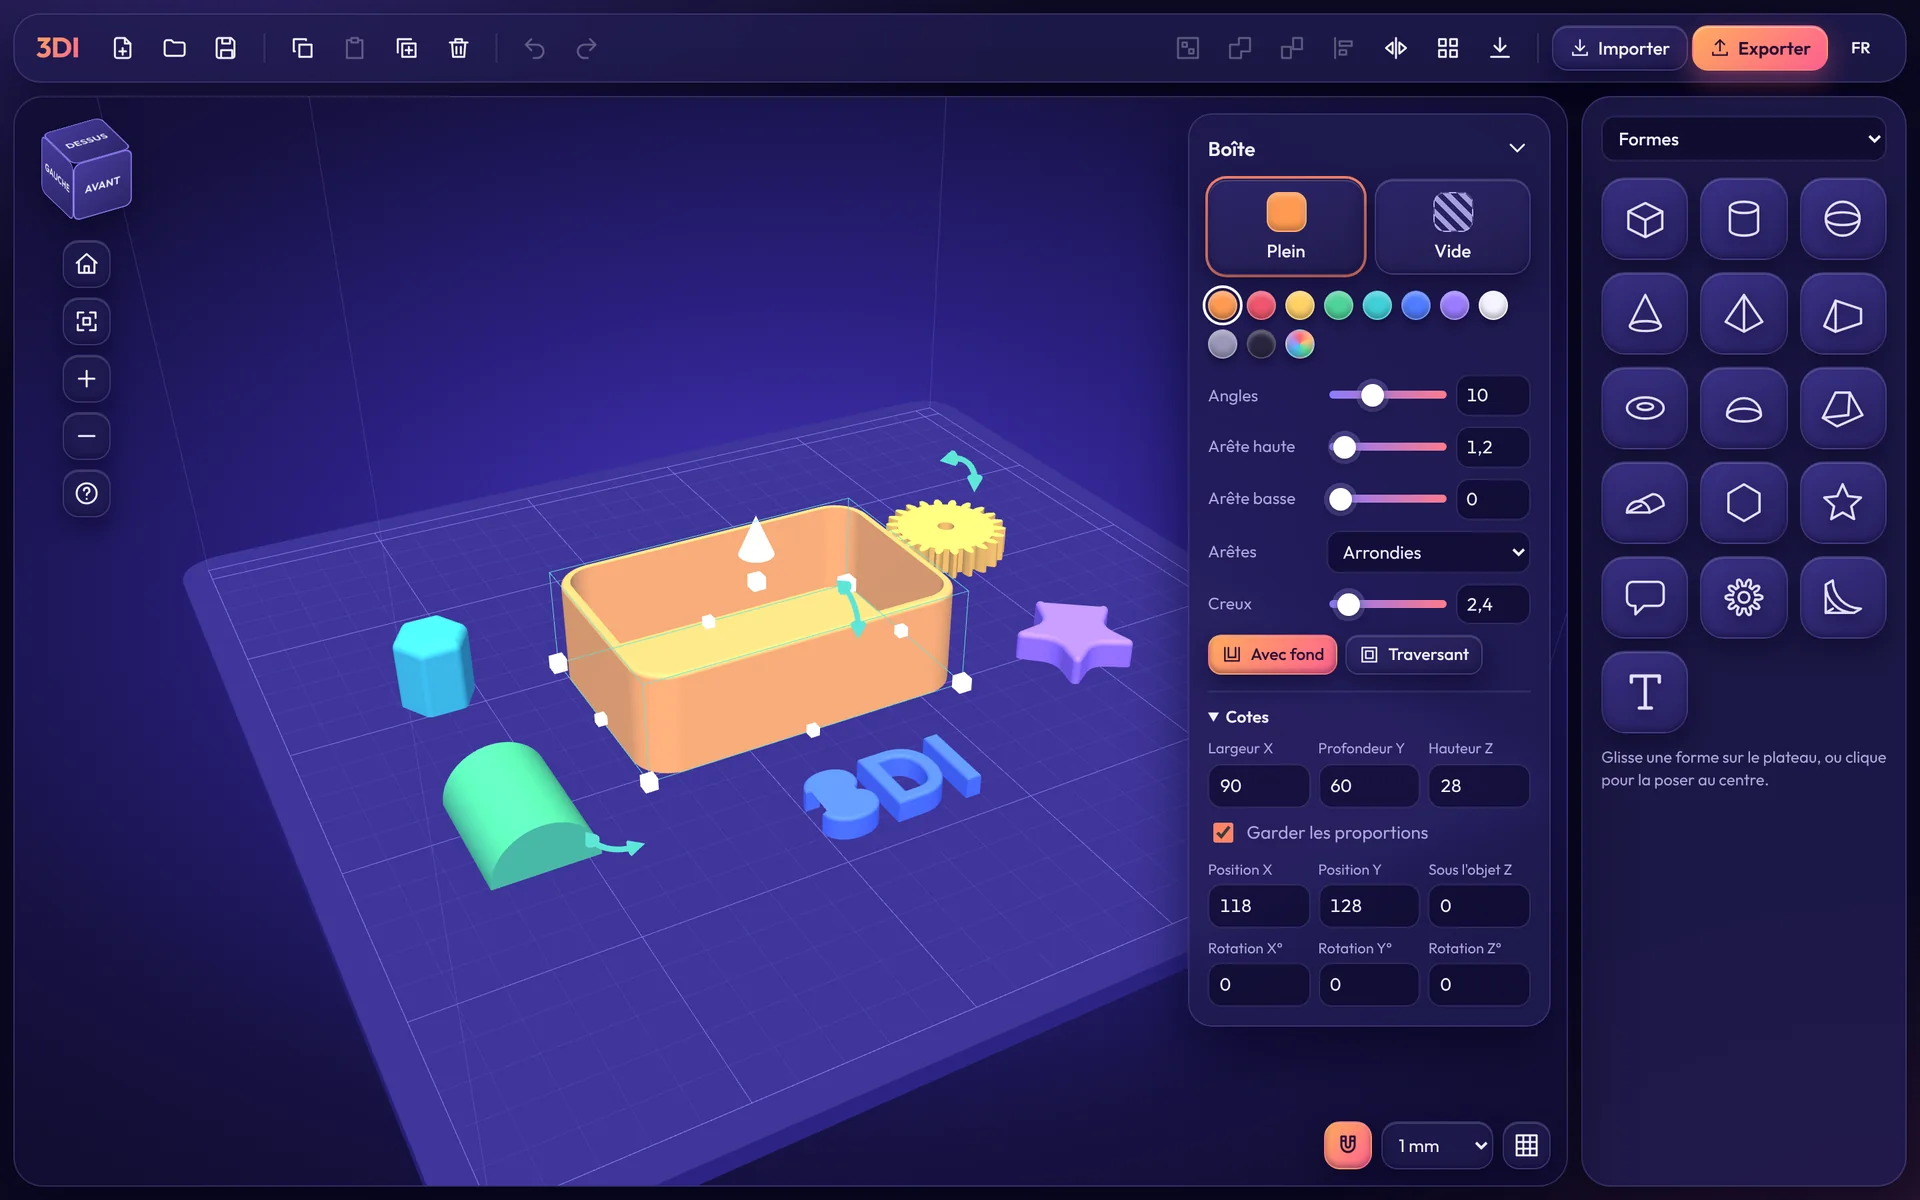
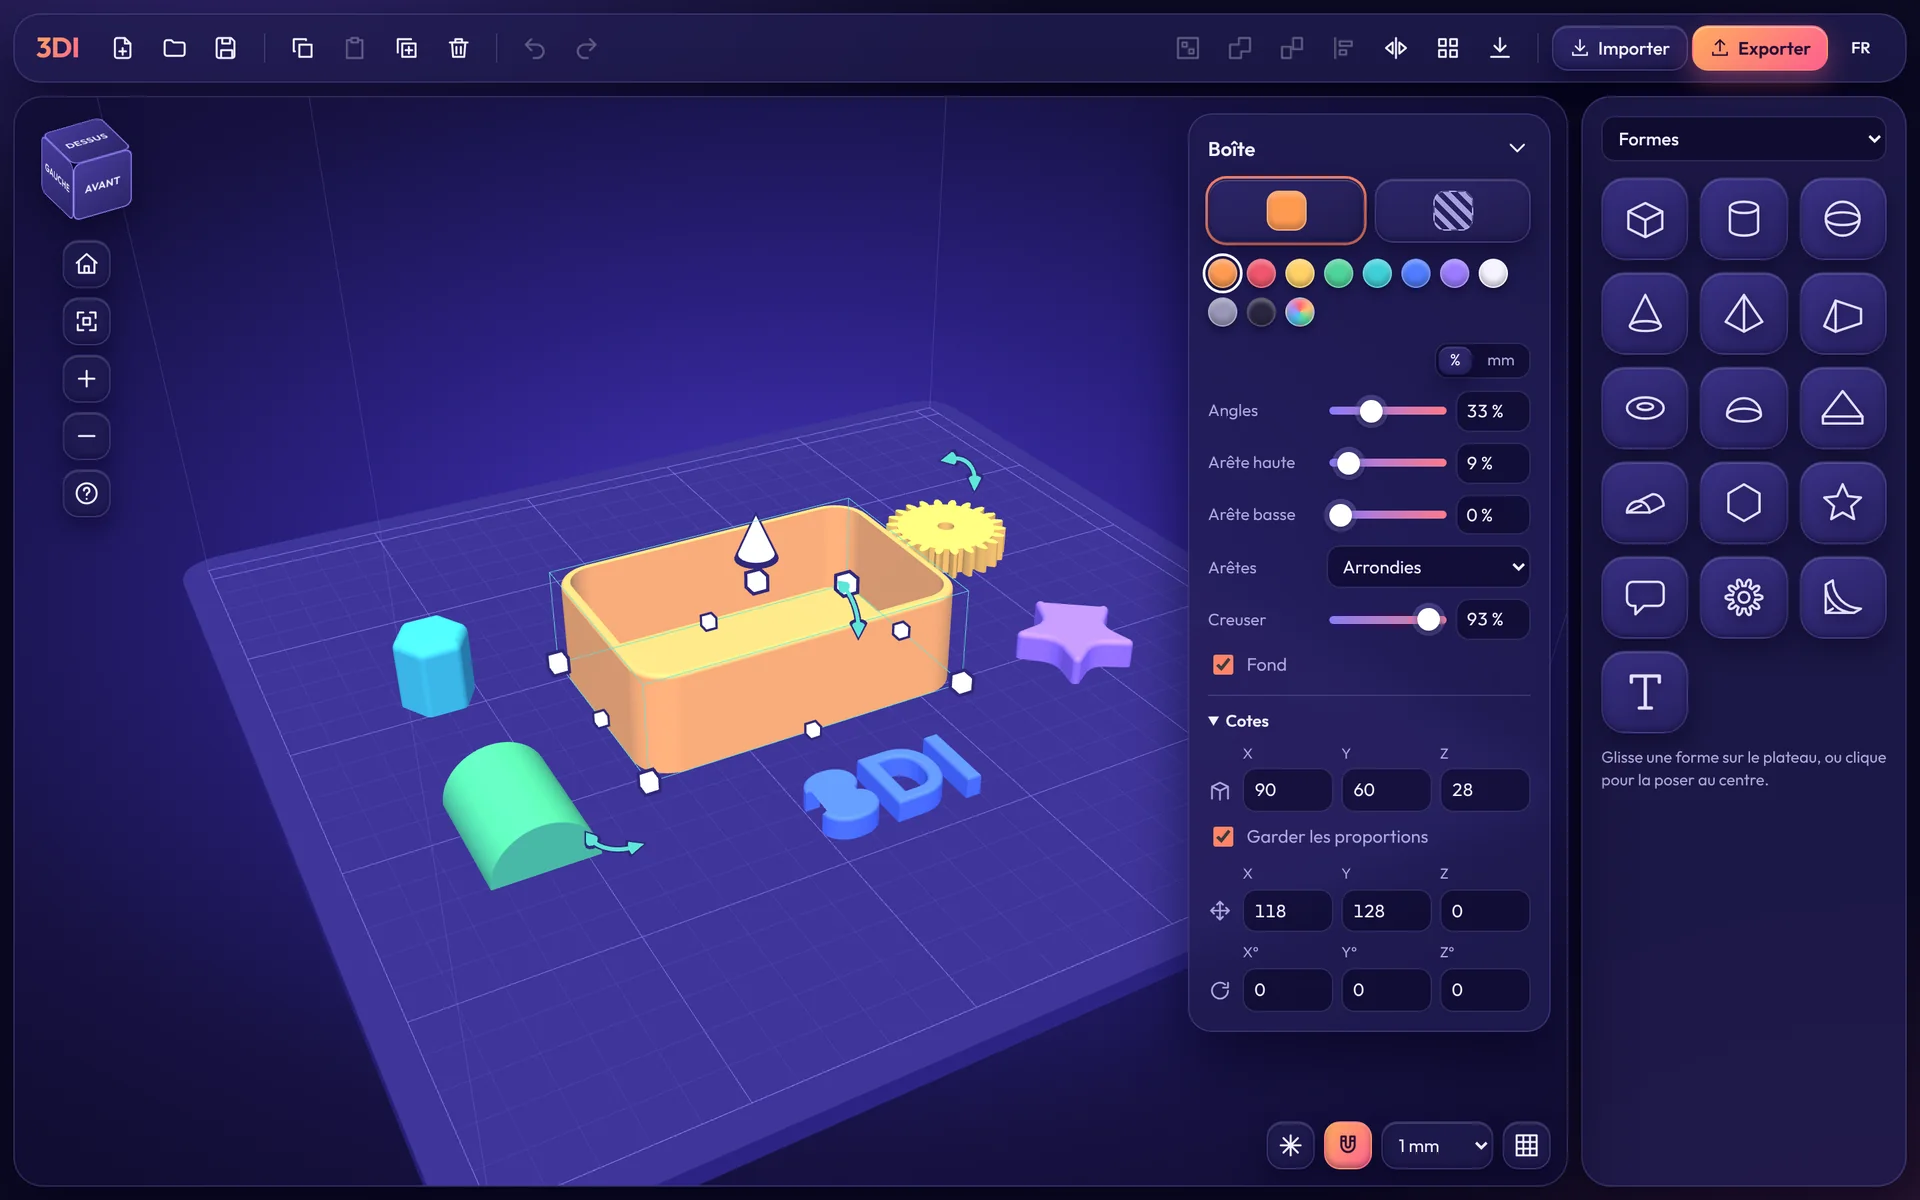
Visserie, piles et aimants : réglages dans le panneau de la pièce
Le modèle, la taille et le jeu ne sont plus dans la bibliothèque : on pose la pièce, puis on la règle
dans son panneau. Le dernier choix sert de point de départ à la pièce suivante.

Claude-Session: https://claude.ai/code/session_013yjLCy5hmHGkwpUXcq5aq7

diff --git a/src/app.html b/src/app.html
@@ -232,6 +232,12 @@ summary{cursor:pointer;font-weight:600;font-size:12.5px;margin-bottom:8px}
             <div class="sl"><span data-t="Creuser"></span><input type="range" id="s-hol" min="0" max="100" step="1"><input id="f-hol" inputmode="decimal" data-tt="Creuser : 0 % = plein. En mm : épaisseur des parois."></div>
             <label class="chk" id="l-fond"><input type="checkbox" id="hm-fond"><span data-t="Fond"></span></label>
           </div>
+          <div id="insp-comp" hidden>
+            <div class="row two">
+              <label class="fld"><span data-t="Modèle"></span><select id="k-model"></select></label>
+              <label class="fld"><span data-t="Jeu"></span><input id="k-jeu" inputmode="decimal" data-tt="Espace ajouté tout autour pour que la pièce entre"></label>
+            </div>
+          </div>
           <div id="insp-hw" hidden>
             <div class="row">
               <label class="fld"><span data-t="Taille"></span><select id="h-size"></select></label>
@@ -286,21 +292,13 @@ summary{cursor:pointer;font-weight:600;font-size:12.5px;margin-bottom:8px}
     <div class="tiles" id="shapes"></div>
     <div class="tiles" id="moulds" hidden></div>
     <div id="comp-box" hidden>
-      <div class="row two">
-        <label class="fld"><span data-t="Pile"></span><select id="c-cell"></select></label>
-        <label class="fld"><span data-t="Aimant"></span><select id="c-mag"></select></label>
-      </div>
-      <div class="row two"><label class="fld"><span data-t="Jeu"></span><input id="c-jeu" inputmode="decimal" value="0,2"></label></div>
       <div class="tiles" id="comps"></div>
     </div>
     <div id="hw-box" hidden>
-      <div class="row two">
-        <label class="fld"><span data-t="Taille"></span><select id="v-size"></select></label>
-        <label class="fld"><span data-t="Jeu"></span><input id="v-jeu" inputmode="decimal" value="0,2"></label>
-      </div>
       <div class="tiles" id="hardware"></div>
     </div>
-    <p class="note" data-t="Glisse une forme sur le plateau, ou clique pour la poser au centre."></p>
+    <p class="note" id="lib-note" data-t="Glisse une forme sur le plateau, ou clique pour la poser au centre."></p>
+    <p class="note" id="lib-note2" hidden data-t="Pose la pièce, puis choisis sa taille et son jeu dans son panneau."></p>
   </aside>
 </div>
 
@@ -529,16 +527,22 @@ const CELLS=[['AAA',10.5,44.5],['AA',14.5,50.5],['C',26.2,50],['D',34.2,61.5],['
   ['CR2032',20,3.2,1],['CR2025',20,2.5,1],['CR2016',20,1.6,1],['LR44',11.6,5.4,1],['9V',26.5,17.5,48.5,2]];
 const MAGNETS=[['Ø3 × 1',3,1],['Ø4 × 2',4,2],['Ø5 × 2',5,2],['Ø5 × 3',5,3],['Ø6 × 2',6,2],['Ø6 × 3',6,3],['Ø8 × 2',8,2],['Ø8 × 3',8,3],['Ø10 × 2',10,2],['Ø10 × 3',10,3],['Ø10 × 5',10,5],
   ['Ø12 × 3',12,3],['Ø15 × 3',15,3],['Ø20 × 3',20,3],['10 × 5 × 2',10,5,2,2],['20 × 10 × 2',20,10,2,2],['20 × 10 × 5',20,10,5,2]];
-function compJeu(){ const v=num($('c-jeu').value); return v===null||v<0?0:v*U(); }
-function compBase(spec,j,lying){
+/* le modèle et le jeu se règlent dans le panneau de l'objet posé ; le dernier choix sert de point de départ au suivant */
+const COMPDEF={cell:1,mag:4,j:.2}, COMPLIST={cell:CELLS,mag:MAGNETS}, COMPNAME={cell:'Pile ',mag:'Aimant '};
+function compBase(c){
+  const sp=COMPLIST[c.t][c.i], j=c.j, box=sp.length===5;
   return make(()=>{
-    if(spec[4]===2) return Manifold.cube([spec[1]+2*j,spec[2]+2*j,spec[3]+2*j],true);
-    const r=spec[1]/2+j, L=spec[2]+2*j, c=Manifold.cylinder(L,r,r,96,true);
-    if(!lying) return c; const m=c.rotate([0,90,0]); c.delete(); return m; });
+    if(box) return Manifold.cube([sp[1]+2*j,sp[2]+2*j,sp[3]+2*j],true);
+    const r=sp[1]/2+j, L=sp[2]+2*j, cy=Manifold.cylinder(L,r,r,96,true);
+    if(c.t!=='cell'||sp[3]===1) return cy; const m=cy.rotate([0,90,0]); cy.delete(); return m; });
 }
-const makeCell=()=>{ const sp=CELLS[+$('c-cell').value], box=sp.length===5; const spec=box?[sp[0],sp[1],sp[2],sp[3],2]:sp;
-  return newObj(compBase(spec,compJeu(),!box&&sp[3]!==1),label('Pile '+sp[0]),{hole:true}); };
-const makeMagnet=()=>{ const sp=MAGNETS[+$('c-mag').value]; return newObj(compBase(sp,compJeu(),false),label('Aimant '+sp[0]),{hole:true}); };
+const makeComp=t=>()=>{ const c={t,i:COMPDEF[t],j:COMPDEF.j}, o=newObj(compBase(c),label(COMPNAME[t]+COMPLIST[t][c.i][0]),{hole:true}); o.comp=c; return o; };
+const makeCell=makeComp('cell'), makeMagnet=makeComp('mag');
+function setComp(o,patch){
+  const c={...o.comp,...patch}, base=compBase(c), bottom=o.pos[2]-o.size[2]/2;
+  o.comp=c; o.base=base; o.size=[...base.size]; o.pos[2]=bottom+o.size[2]/2;
+  o.name=COMPNAME[c.t]+COMPLIST[c.t][c.i][0]; COMPDEF[c.t]=c.i; COMPDEF.j=c.j;
+}
 
 /* cône, pyramide, rampe, dôme : les arêtes vives s'arrondissent par « ouverture » (on érode d'une bille, puis on regonfle).
    Cône et dôme sont des révolutions : l'ouverture se fait sur leur coupe, c'est instantané. Sphère et anneau n'ont aucune arête vive. */
@@ -804,9 +808,11 @@ function hwSolid(hw){
   return Manifold.cylinder(L,r,r,48);
 }
 function hwBase(hw){ const man=hwSolid(hw), {base}=baseFrom(man); man.delete(); return base; }
-function applyHW(o,hw){ const base=hwBase(hw), bottom=boxOf(o).min[2]; o.hw=hw; o.base=base; o.size=[...base.size]; o.pos[2]+=bottom-boxOf(o).min[2]; }
+/* taille et jeu se règlent dans le panneau de l'objet posé ; le dernier choix sert de point de départ au suivant */
+const HWDEF={size:'M3',j:.2};
+function applyHW(o,hw){ HWDEF.size=hw.size; if(hw.type!=='ins') HWDEF.j=hw.j; const base=hwBase(hw), bottom=boxOf(o).min[2]; o.hw=hw; o.base=base; o.size=[...base.size]; o.pos[2]+=bottom-boxOf(o).min[2]; }
 function addHardware(type){
-  const size=$('v-size').value, h=HW[size], jv=num($('v-jeu').value), j=type==='ins'||jv===null||jv<0?0:jv*U();
+  const size=HWDEF.size, h=HW[size], j=type==='ins'?0:HWDEF.j;
   const hw={type,size,j,L:type==='nut'?h.nut+j:type==='ins'?h.insL+1:20}, base=hwBase(hw);
   pushUndo();
   const o=newObj(base,label(HWNAME[type]+' '+size),{hole:true,kind:'hw',hw}), n=S.objs.length%6;
@@ -1539,6 +1545,8 @@ canvas.addEventListener('pointerup',endDrag); canvas.addEventListener('pointerca
 
 /* ---------- langues : le français sert de clé, l'anglais est une table ---------- */
 const EN={
+  'Pose la pièce, puis choisis sa taille et son jeu dans son panneau.':'Place the part, then choose its size and clearance in its panel.',
+  'Modèle':'Model','Espace ajouté tout autour pour que la pièce entre':'Clearance added all around so the part fits',
   'Creuser':'Hollow','Fond':'Bottom','Creuser : 0 % = plein. En mm : épaisseur des parois.':'Hollow: 0% = solid. In mm: wall thickness.','Régler les arrondis en pourcentage ou en valeur réelle':'Set rounding as a percentage or a real value',
   'Taille':'Size','Position':'Position','Rotation':'Rotation','Écart X':'Step X','Écart Y':'Step Y','Écart Z':'Step Z','Diamètre':'Diameter','Écartement':'Spacing','Indique un écart sur au moins un axe.':'Set a step on at least one axis.',
   'Non':'Off','Mode symétrie (mandala)':'Symmetry mode (mandala)','Figer les copies en objets':'Turn copies into objects',
@@ -1743,7 +1751,8 @@ function updateInspector(){
   }
   if(n===1){
     const o=list[0], b=boxOf(o), pf=o.kind==='profile'?o.prof:null;
-    $('insp-prof').hidden=!pf; $('insp-hw').hidden=o.kind!=='hw';
+    $('insp-prof').hidden=!pf; $('insp-hw').hidden=o.kind!=='hw'; $('insp-comp').hidden=!o.comp;
+    if(o.comp){ const km=$('k-model'); if(km.dataset.t!==o.comp.t){ km.dataset.t=o.comp.t; km.textContent=''; COMPLIST[o.comp.t].forEach((c,i)=>km.add(new Option(c[0],i))); } km.value=o.comp.i; if(document.activeElement!==$('k-jeu')) $('k-jeu').value=fmt(o.comp.j); }
     $('insp-shp').hidden=!(o.kind==='shape'&&o.shp); $('insp-smooth').hidden=!(o.kind==='shape'&&o.smooth&&!o.shp);
     $('unitsw').hidden=!(pf||(o.kind==='shape'&&o.shp)); unitUI();
     if(o.kind==='shape'&&o.shp) showParam('rr',o,o.shp.rr||0);
@@ -1850,7 +1859,7 @@ for(const [,c] of COLORS){ const b=document.createElement('button'); b.className
   ci.addEventListener('input',()=>{ const list=selected(); if(!list.length) return; if(!live){ pushUndo(); live=true; } list.forEach(o=>paintOne(o,ci.value)); syncMeshes(); $('sq-solid').style.background=ci.value; });
   ci.addEventListener('change',()=>{ live=false; refresh(); }); }
 $('f-multi').onchange=e=>{ const on=e.target.checked; editOne(o=>setMulti(o,on)); };
-for(const k in HW){ $('h-size').add(new Option(k,k)); $('v-size').add(new Option(k,k)); } $('v-size').value='M3';
+for(const k in HW) $('h-size').add(new Option(k,k));
 $('h-size').onchange=e=>editOne(o=>{ o.name=o.name.replace(o.hw.size,e.target.value); applyHW(o,{...o.hw,size:e.target.value}); });
 $('h-jeu').addEventListener('change',e=>{ const v=num(e.target.value); if(v===null||v<0){ updateInspector(); return; } editOne(o=>applyHW(o,{...o.hw,j:v*U()})); });
 $('h-len').addEventListener('change',e=>{ const v=num(e.target.value); if(v===null||v<=0){ updateInspector(); return; } editOne(o=>applyHW(o,{...o.hw,L:v*U()})); });
@@ -2012,7 +2021,7 @@ const makeText=()=>{
   return base?newObj(base,label('Texte'),{kind:'profile',prof}):null;
 };
 const makeHW=type=>()=>{
-  const size=$('v-size').value, h=HW[size], jv=num($('v-jeu').value), j=type==='ins'||jv===null||jv<0?0:jv*U();
+  const size=HWDEF.size, h=HW[size], j=type==='ins'?0:HWDEF.j;
   const hw={type,size,j,L:type==='nut'?h.nut+j:type==='ins'?h.insL+1:20};
   return newObj(hwBase(hw),label(HWNAME[type]+' '+size),{hole:true,kind:'hw',hw});
 };
@@ -2040,9 +2049,9 @@ function spawnTile(parent,icon,labelFr,factory){
 }
 for(const k in SHAPES) if(!SHAPES[k].hide) spawnTile($(SHAPES[k].cat==='mould'?'moulds':'shapes'),'<svg viewBox="0 0 34 34" aria-hidden="true">'+SHAPES[k].icon+'</svg>',SHAPES[k].name,makeShape(k));
 spawnTile($('shapes'),svgIcon('text',''),'Texte',makeText);
-$('lib-cat').onchange=e=>{ const v=e.target.value; $('shapes').hidden=v!=='shapes'; $('moulds').hidden=v!=='mould'; $('hw-box').hidden=v!=='hardware'; $('comp-box').hidden=v!=='comp'; };
-CELLS.forEach((c,i)=>$('c-cell').add(new Option(c[0],i))); $('c-cell').value='1';
-MAGNETS.forEach((c,i)=>$('c-mag').add(new Option(c[0],i))); $('c-mag').value='4';
+$('lib-cat').onchange=e=>{ const v=e.target.value; $('shapes').hidden=v!=='shapes'; $('moulds').hidden=v!=='mould'; $('hw-box').hidden=v!=='hardware'; $('comp-box').hidden=v!=='comp'; const cfg=v==='hardware'||v==='comp'; $('lib-note').hidden=cfg; $('lib-note2').hidden=!cfg; };
+$('k-model').onchange=e=>editOne(o=>{ if(o.comp) setComp(o,{i:+e.target.value}); });
+$('k-jeu').addEventListener('change',e=>{ const v=num(e.target.value); if(v===null||v<0||v>5){ updateInspector(); return; } editOne(o=>{ if(o.comp) setComp(o,{j:v*U()}); }); });
 spawnTile($('comps'),'<svg viewBox="0 0 34 34" aria-hidden="true"><rect x="9" y="8" width="16" height="22" rx="3"/><path d="M14 8V5h6v3M14 15h6M17 12v6M14 25h6"/></svg>','Pile',makeCell);
 spawnTile($('comps'),'<svg viewBox="0 0 34 34" aria-hidden="true"><path d="M7 6v11a10 10 0 0020 0V6h-7v11a3 3 0 01-6 0V6z"/><path d="M7 11h7M20 11h7"/></svg>','Aimant',makeMagnet);
 for(const t of ['hole','csk','cap','nut','ins']) spawnTile($('hardware'),svgIcon('hw_'+t,''),HWNAME[t],makeHW(t));

diff --git a/CHANGELOG.md b/CHANGELOG.md
@@ -13,6 +13,7 @@ et s'affiche dans la fenêtre « Mise à jour disponible » de l'appli. Reste co
 - Redimensionnement à la souris calé sur le pas de la grille
 - Poignées avec contour, flèches de rotation affinées, panneau allégé (pictos Taille / Position / Rotation)
 - Triangle posé à plat
+- Visserie, piles et aimants : le modèle, la taille et le jeu se règlent dans le panneau de la pièce posée
 
 ## 1.1.0
 
